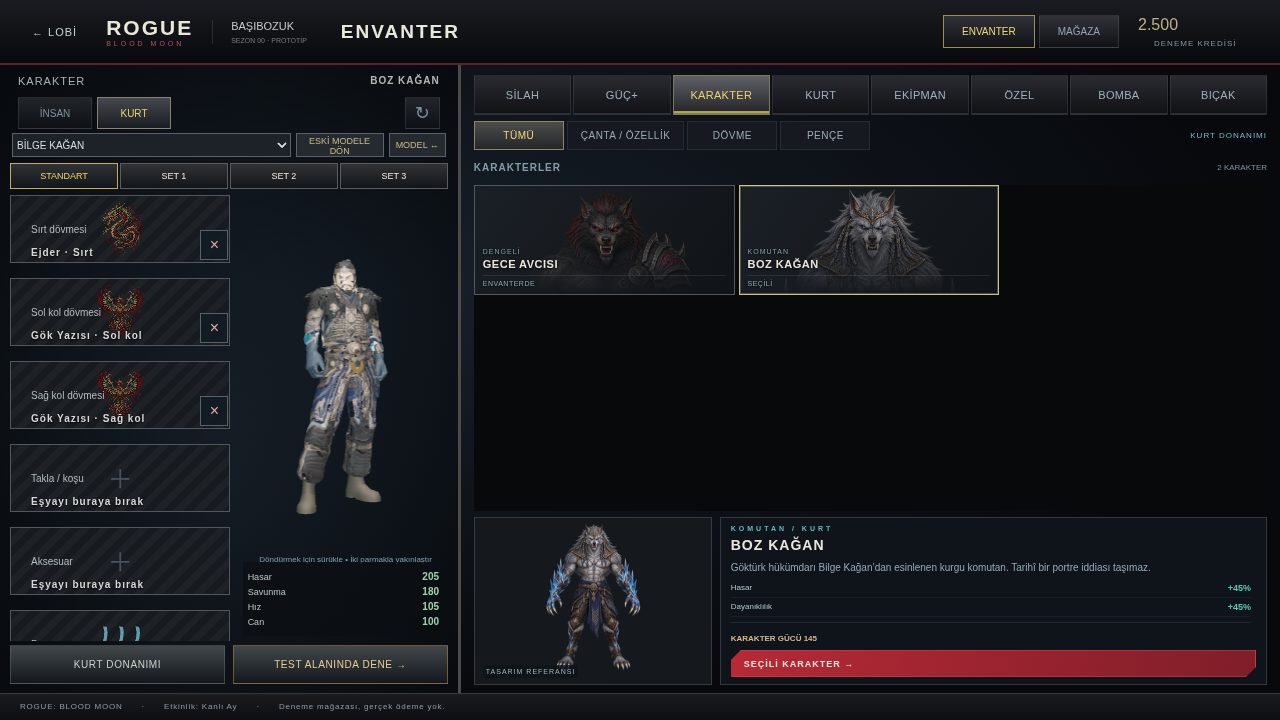
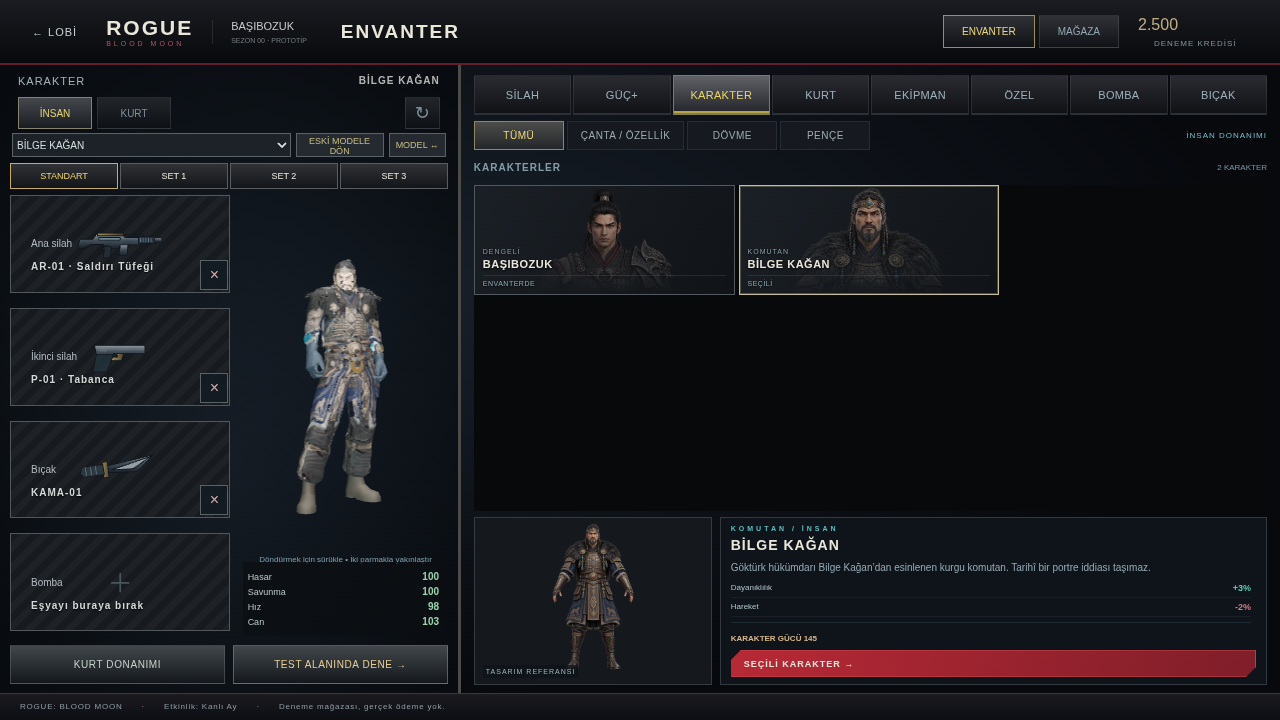
Exercise native human selection through actual inventory controls

diff --git a/tools/verify_native_pair_runtime.py b/tools/verify_native_pair_runtime.py
@@ -14,7 +14,7 @@ with sync_playwright() as p:
  page.screenshot(path=str(R/'docs/native-pair-review/runtime-roar.png'))
  page.wait_for_function('()=>arenaDebug.state().canAct',timeout=15000);page.evaluate('arenaDebug.action("fire")');assert page.evaluate('arenaDebug.state().motion')=='WolfClawRight'
  page.wait_for_function('()=>arenaDebug.state().attackCooldown===0',timeout=10000);page.evaluate('arenaDebug.action("fire")');assert page.evaluate('arenaDebug.state().motion')=='WolfClawLeft'
- page.locator('#arenaExit').click();page.locator('[data-nav=inventory]').click();page.evaluate('previewCharacter3D("bilge","human")');page.wait_for_function('()=>wolf3DInfo().loaded==="human-bilge"',timeout=90000);info=page.evaluate('wolf3DInfo()');assert 'HumanWalk' in info['clips']
+ page.locator('#arenaExit').click();page.locator('[data-nav=inventory]').click();page.locator('#loadoutCharacter').select_option('bilge');page.locator('#previewHuman').click();page.wait_for_function('()=>wolf3DInfo().loaded==="human-bilge"',timeout=90000);info=page.evaluate('wolf3DInfo()');assert 'HumanWalk' in info['clips']
  page.wait_for_timeout(1000);page.screenshot(path=str(R/'docs/native-pair-review/runtime-human.png'))
  # GLB selection in engine is explicit; confirm network fetched both new files.
  paths=page.evaluate('performance.getEntriesByType("resource").map(r=>r.name)');assert any('guardian-wolf.glb' in n for n in paths);assert any('guardian-human.glb' in n for n in paths)
